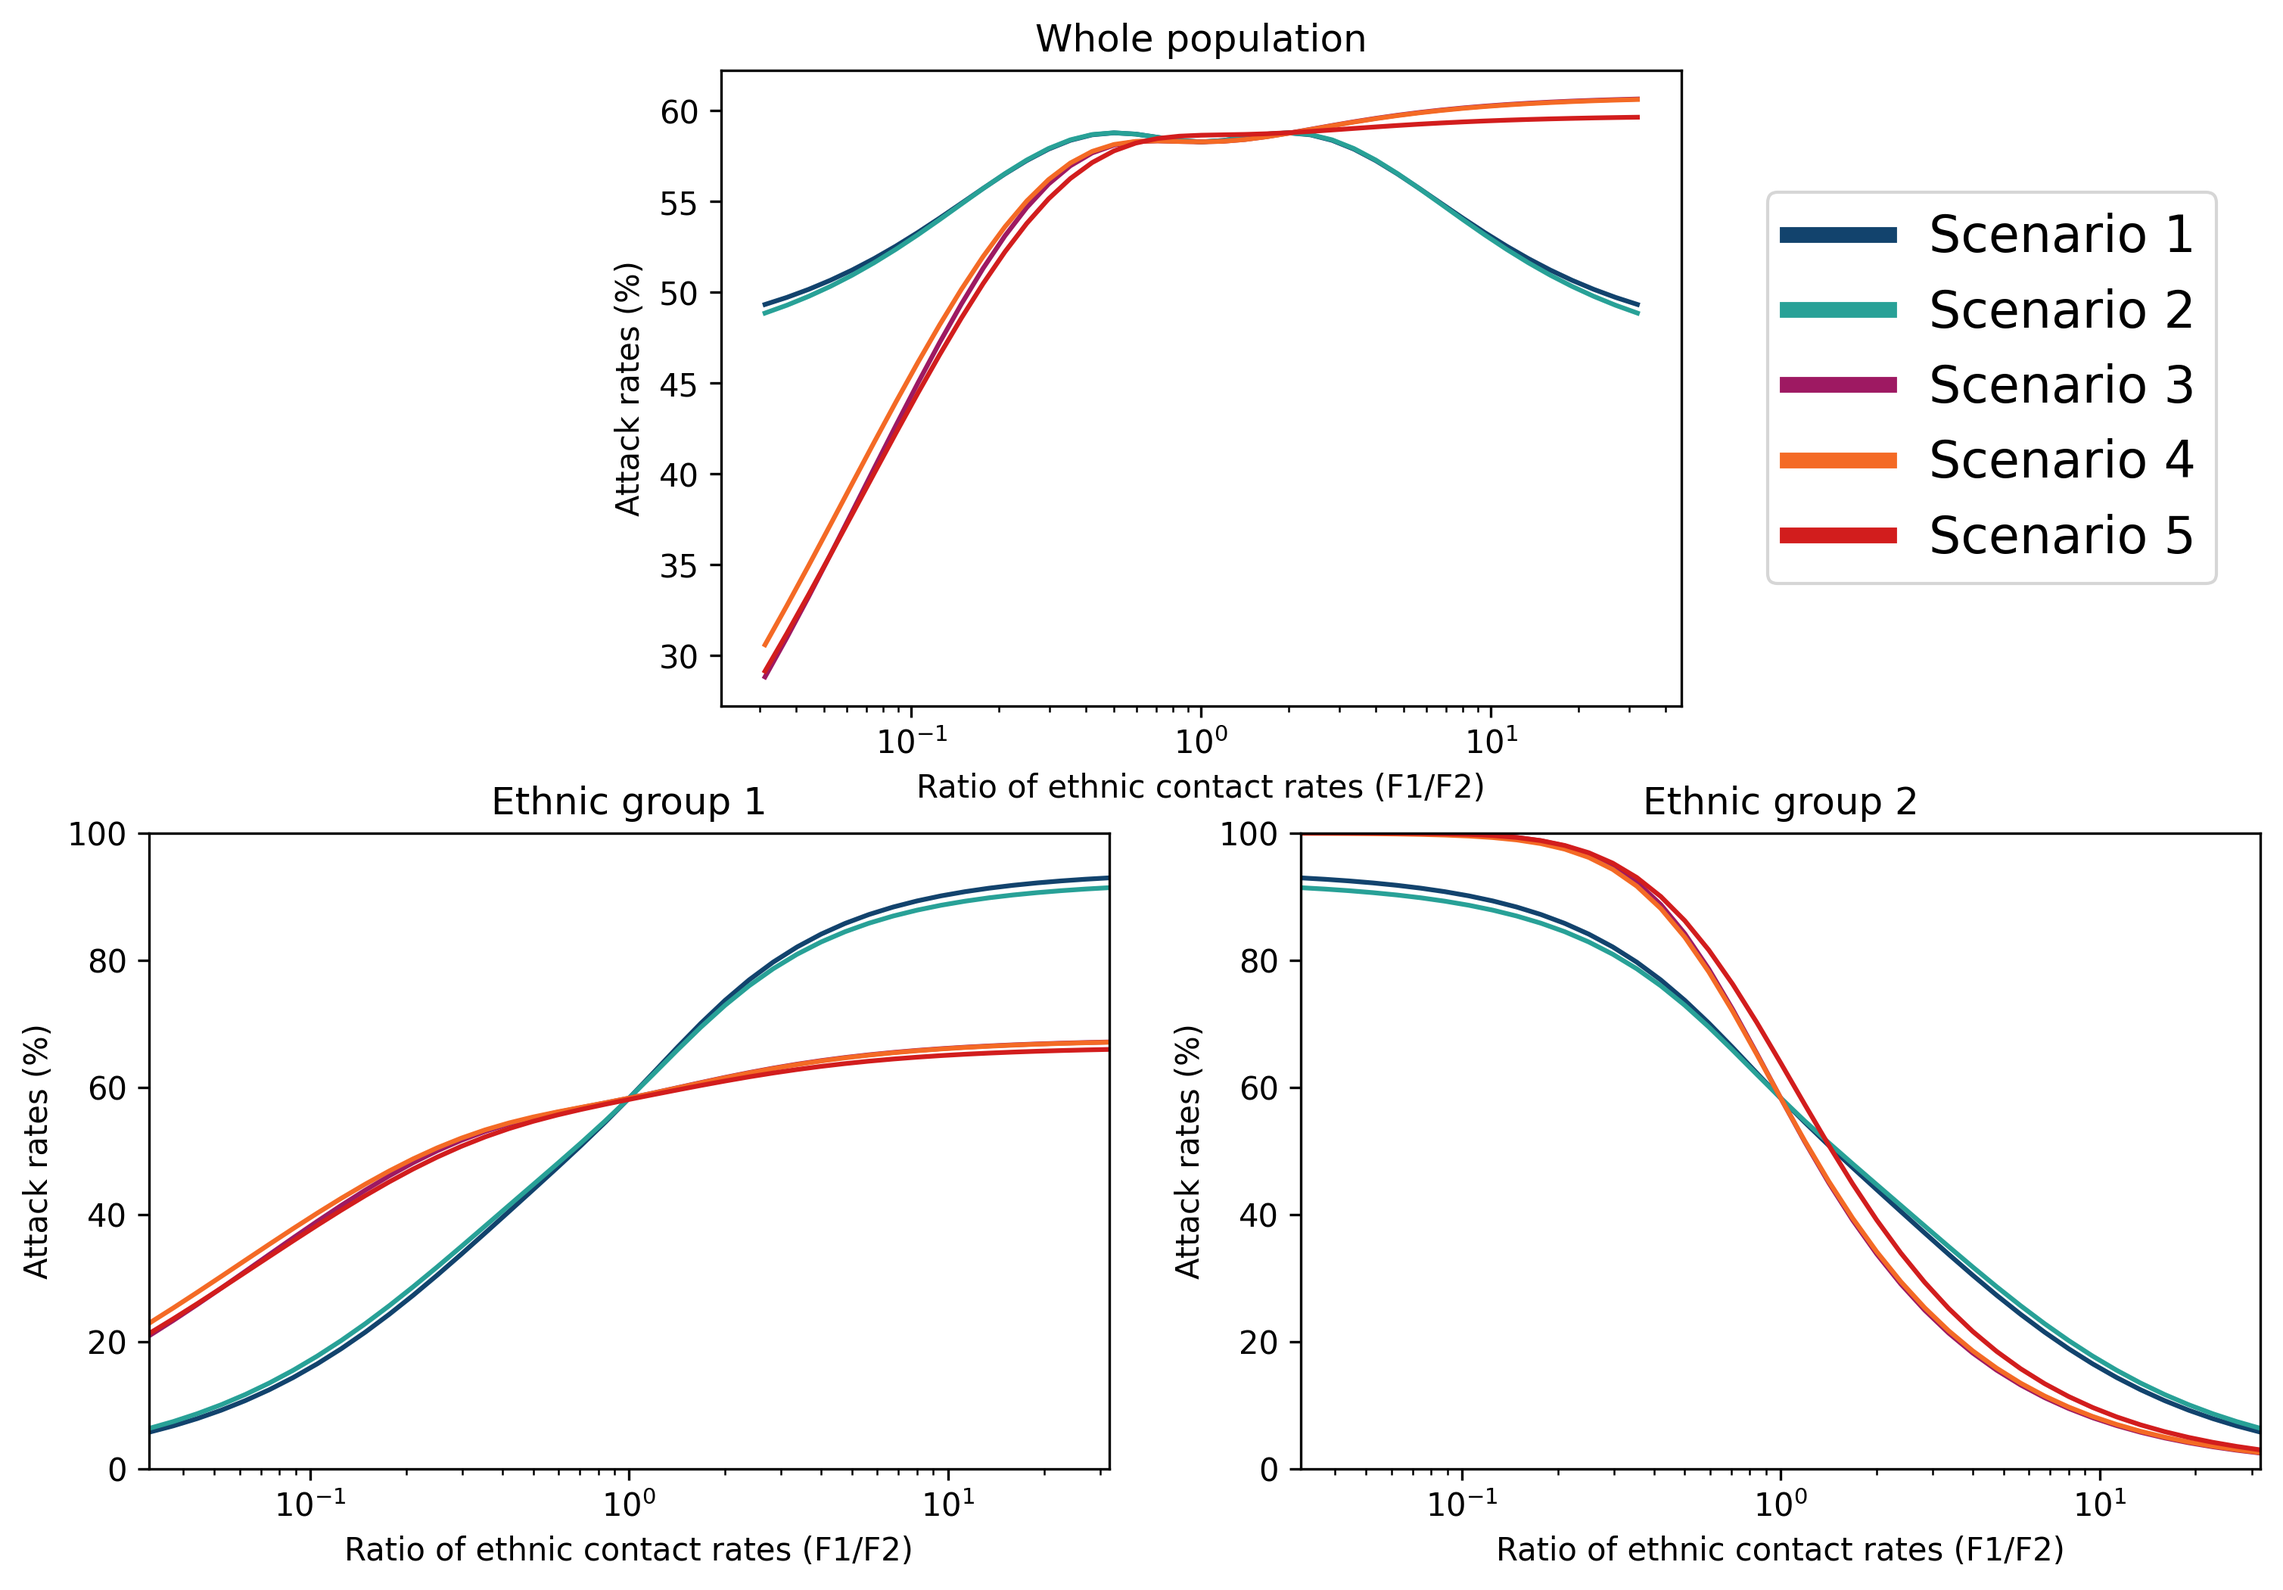
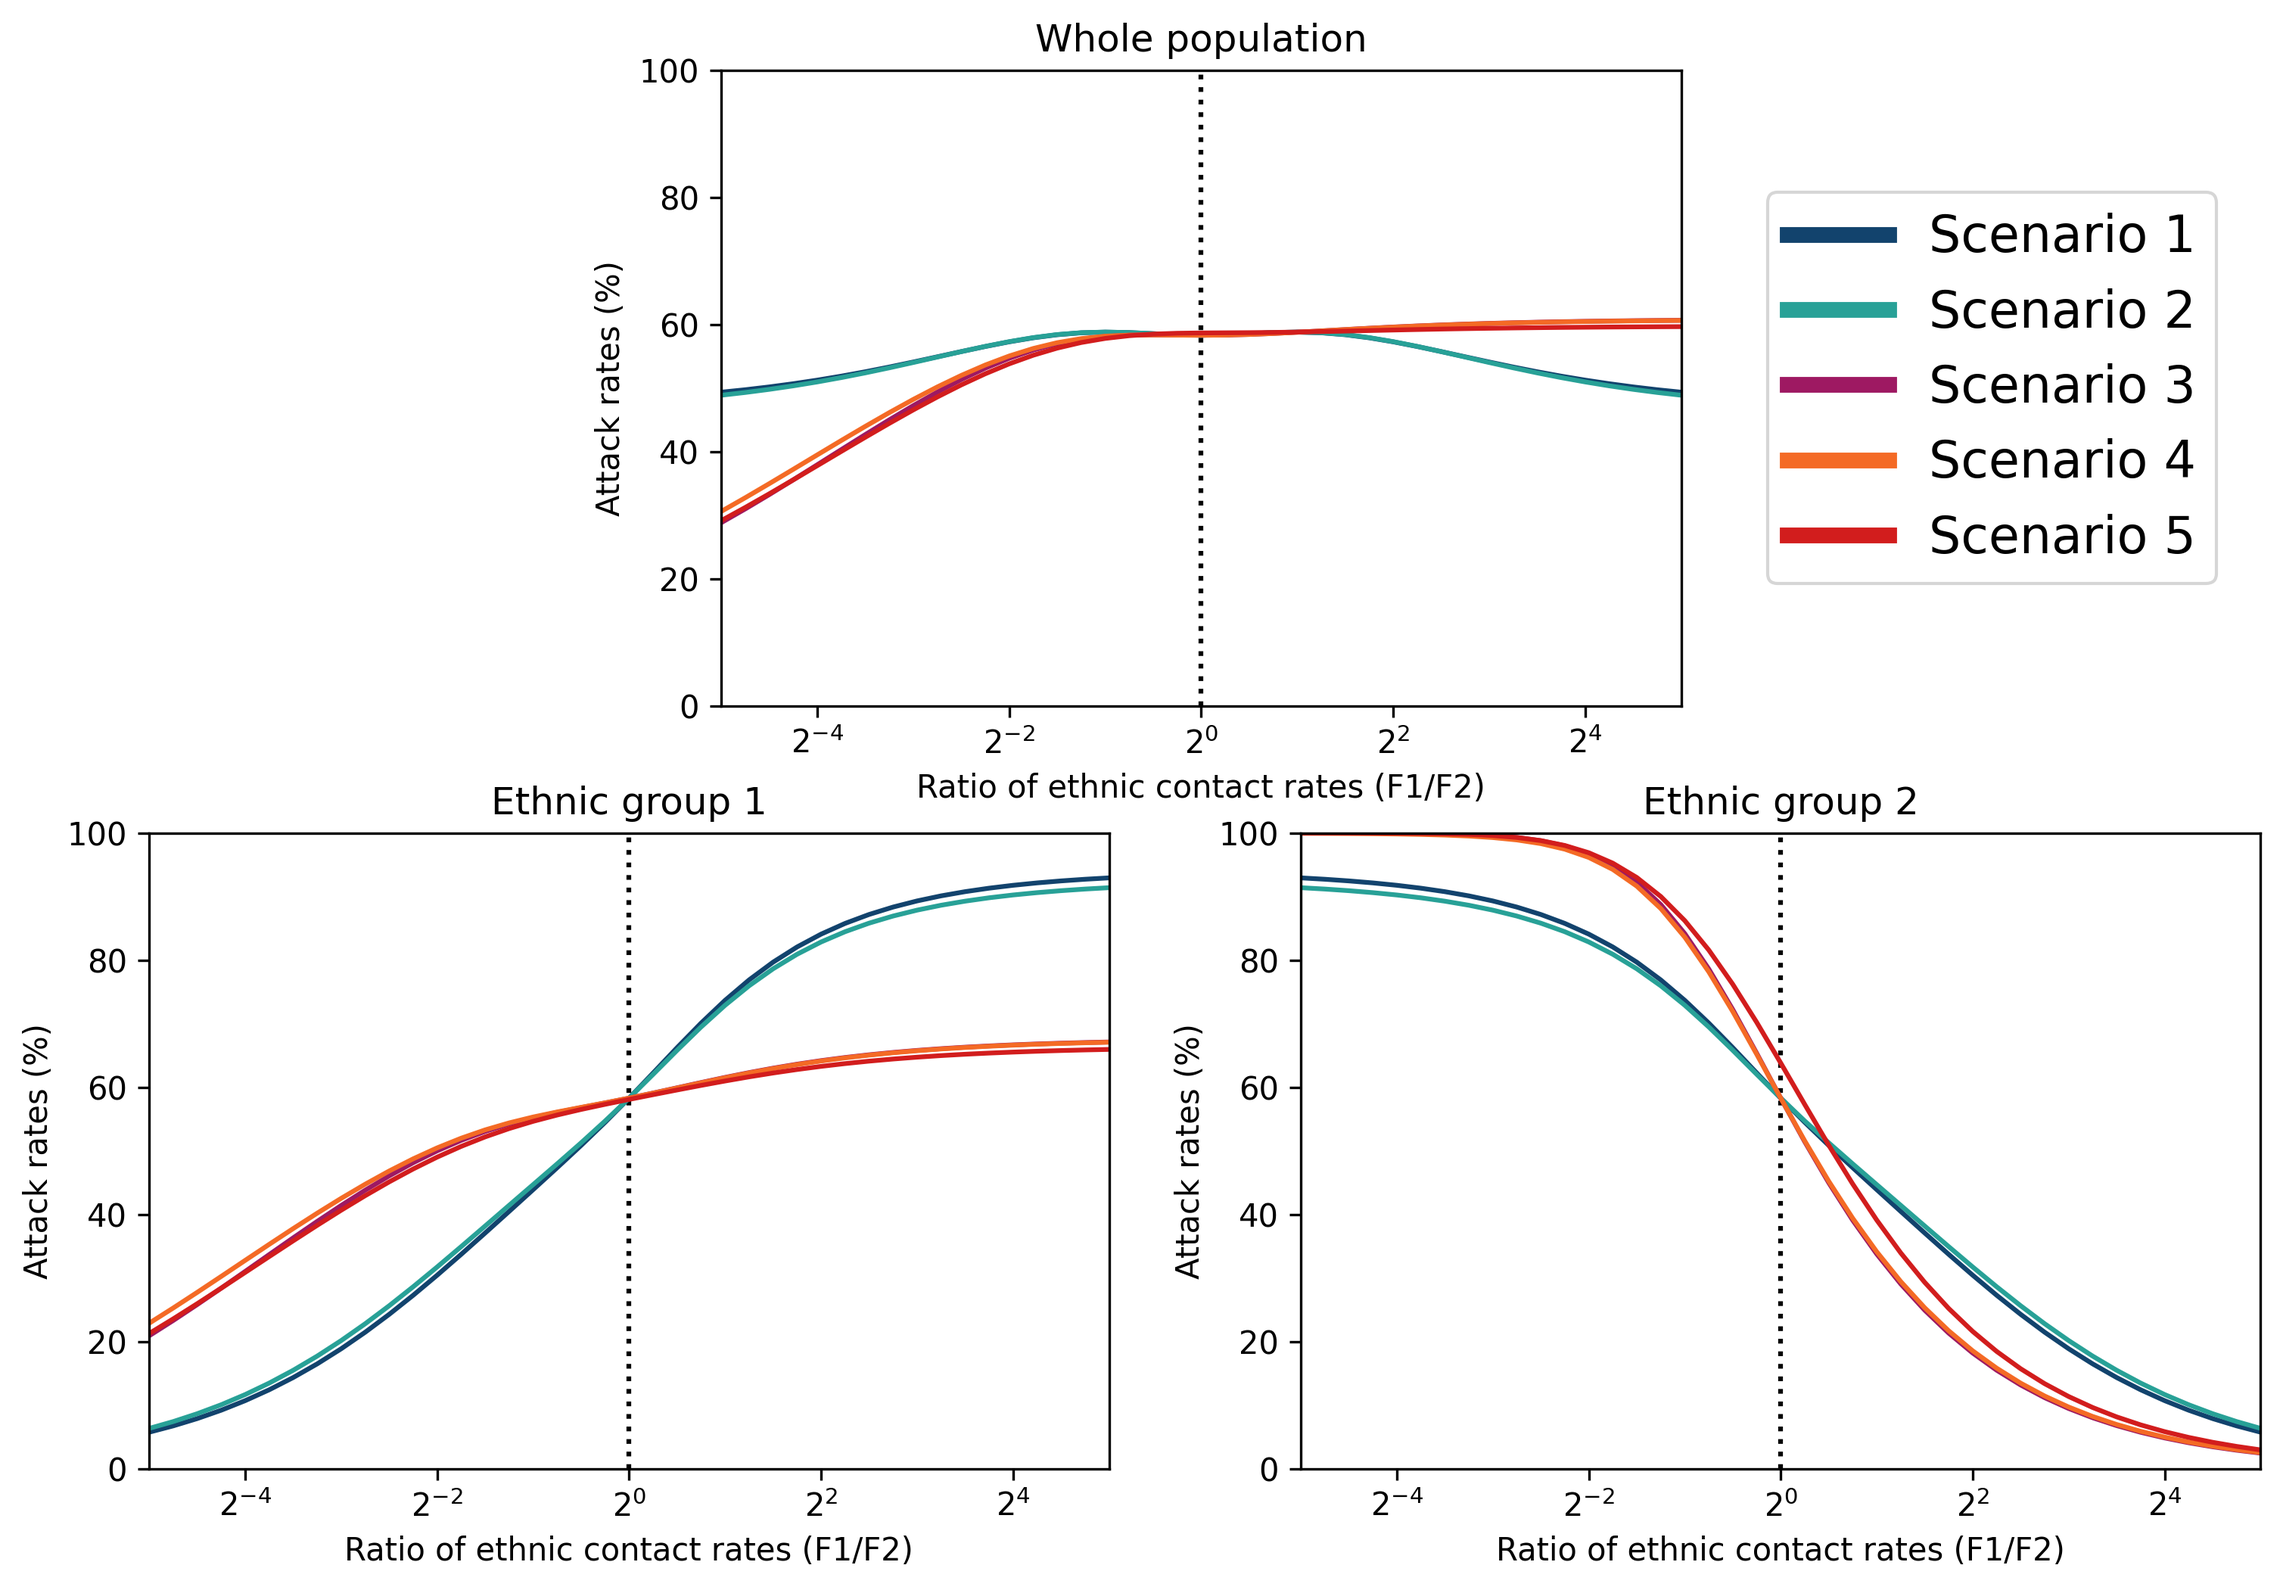
Updated plot code

diff --git a/numerical_analysis.py b/numerical_analysis.py
@@ -19,6 +19,7 @@ from cycler import cycler
 import multi_factor_matrix_modules.modules as mfmm
 import numpy as np
 import matplotlib.pyplot as plt
+import matplotlib.ticker as pyplottk
 import scipy
 
 def legend_with_extra(solid_name,dashed_name, solid_line=None, dashed_line=None,ax=None):
@@ -81,8 +82,28 @@ def variance_plot(x_vals, variance_array,scenarios_to_plot, x_axis_title,
     axes[0,1].axis('off')
     if is_xlog:
         axes[0,0].set_xscale('log')
+        min_2_pwr = int(np.round(np.log(min(x_vals))/np.log(2)))
+        max_2_pwr = int(np.round(np.log(max(x_vals))/np.log(2)))
+        if min_2_pwr%2:
+            min_2_pwr_tick = min_2_pwr + 1 
+        else:
+            min_2_pwr_tick = min_2_pwr
+        # label ticks with power of two
+        tick_labels = []
+        for pwr in range(min_2_pwr_tick, max_2_pwr+1,2):
+            tick_labels.append(f'$2^{{{pwr}}}$')
+        axes[0,0].get_xaxis().set_major_formatter(pyplottk.ScalarFormatter())
+        axes[0,0].set_xticks(2**np.arange(min_2_pwr_tick,max_2_pwr+0.5,2),labels=tick_labels)
+        axes[0,0].get_xaxis().set_tick_params(which='minor', size=0)
+        axes[0,0].get_xaxis().set_tick_params(which='minor', width=0) 
     axes[0,0].set_ylabel(y_axis_title)
     axes[0,0].set_xlabel(x_axis_title)
+    axes[0,0].set_xlim(min(x_vals),max(x_vals))
+    axes[0,0].set_ylim(0,100)
+    if is_line_at_1:
+        axes[0,0].axvline(1, 0,100,color='black',linestyle=':')
+        axes[1,0].axvline(1, 0,100,color='black',linestyle=':')
+        axes[1,1].axvline(1, 0,100,color='black',linestyle=':')
     
     for i in range(num_ethnic_groups):
         axes[1,i].set_title(f'Ethnic group {i+1}')
@@ -92,6 +113,20 @@ def variance_plot(x_vals, variance_array,scenarios_to_plot, x_axis_title,
         axes[1,i].set_xlim([np.min(x_vals),np.max(x_vals)])
         if is_xlog:
             axes[1,i].set_xscale('log')
+            min_2_pwr = int(np.round(np.log(min(x_vals))/np.log(2)))
+            max_2_pwr = int(np.round(np.log(max(x_vals))/np.log(2)))
+            if min_2_pwr%2:
+                min_2_pwr_tick = min_2_pwr + 1 
+            else:
+                min_2_pwr_tick = min_2_pwr
+            # label ticks with power of two
+            tick_labels = []
+            for pwr in range(min_2_pwr_tick, max_2_pwr+1,2):
+                tick_labels.append(f'$2^{{{pwr}}}$')
+            axes[1,i].get_xaxis().set_major_formatter(pyplottk.ScalarFormatter())
+            axes[1,i].set_xticks(2**np.arange(min_2_pwr_tick,max_2_pwr+0.5,2),labels=tick_labels)
+            axes[1,i].get_xaxis().set_tick_params(which='minor', size=0)
+            axes[1,i].get_xaxis().set_tick_params(which='minor', width=0) 
         axes[1,i].set_ylabel(y_axis_title)
         axes[1,i].set_xlabel(x_axis_title)
     if is_save_fig:
@@ -142,6 +177,7 @@ def variance_plot(x_vals, variance_array,scenarios_to_plot, x_axis_title,
             plt.xscale('log')
         plt.ylabel('Basic Reproductive Number')
         plt.xlabel(x_axis_title)
+        plt.xlim(min(x_vals),max(x_vals))
         if is_save_fig:
             plt.savefig(f'images/{filename}_R0.png', dpi=300,bbox_inches='tight')
         plt.show()
@@ -444,7 +480,7 @@ if is_plot_relative_contact_rate_variance:
                   num_matrices=num_matrices, num_ethnic_groups=num_ethnic_groups,
                   num_age_groups=num_age_groups, is_save_fig = is_save_figs,
                   filename=f'relative_contact_rate_variation/relative_contact_rate_variation_eth_epsilon{epsilon}_age_epsilon_{c}',
-                  reproductive_numbers=reproductive_numbers,is_xlog=True)
+                  reproductive_numbers=reproductive_numbers,is_xlog=True,is_line_at_1=True)
     
 
 

diff --git a/heatplot_maker.py b/heatplot_maker.py
@@ -11,9 +11,9 @@ import multi_factor_matrix_modules.modules as mfmm
 import scipy
 import seaborn as sns
 
-is_generate_results = True
+is_generate_results = False
 is_plot = True
-is_savefig = False
+is_savefig = True
 
 # Constructing the contact matrices
 
@@ -139,15 +139,27 @@ for scenario_num in [1,2,3,4,5]:
                             t_eval=np.arange(time+1), args = (beta_matrix, sigma, gamma))
             attack_rate_matrix[eth_rel_idx, eth_idx] = np.sum(solution.y[-10:,-1]) / np.sum(N)
     
+    y_labels = []
+    pwrs = np.round(np.linspace(-1.5,1.5,eth_rel_res),1)
+    for eth_rel_idx in range(eth_rel_res):
+        if eth_rel_idx%2:
+            y_labels.append('')
+        else:
+            pwr = pwrs[eth_rel_idx]
+            y_labels.append(f'$2^{{{pwr}}}$')
+        
     heatplot = sns.heatmap(attack_rate_matrix,
                 cmap="viridis", xticklabels=np.round(np.linspace(0,1,eth_res),2),
-                yticklabels=np.round(np.linspace(-1.5,1.5,eth_rel_res),1),cbar=True,
+                yticklabels=y_labels,cbar=True,
                 rasterized=True, vmin=0.4, vmax=0.6)
     heatplot.set_title(f'Senario {scenario_num}')
     heatplot.set_xlabel("Ethnic assortativity")
-    heatplot.set_ylabel("Relative contact rate (log_2)")
+    heatplot.set_ylabel("Relative contact rate")
     plt.show()
     
     
     curr_min = np.min([curr_min,np.min(attack_rate_matrix)])
     curr_max = np.max([curr_max,np.max(attack_rate_matrix)])
+    
+    if is_savefig:
+        plt.savefig(f'images/heatplots/rel_contact_rate_vs_eth_epsilon/rel_contact_rate_vs_eth_epsilon_scen{scenario_num}.png',dpi=300)
